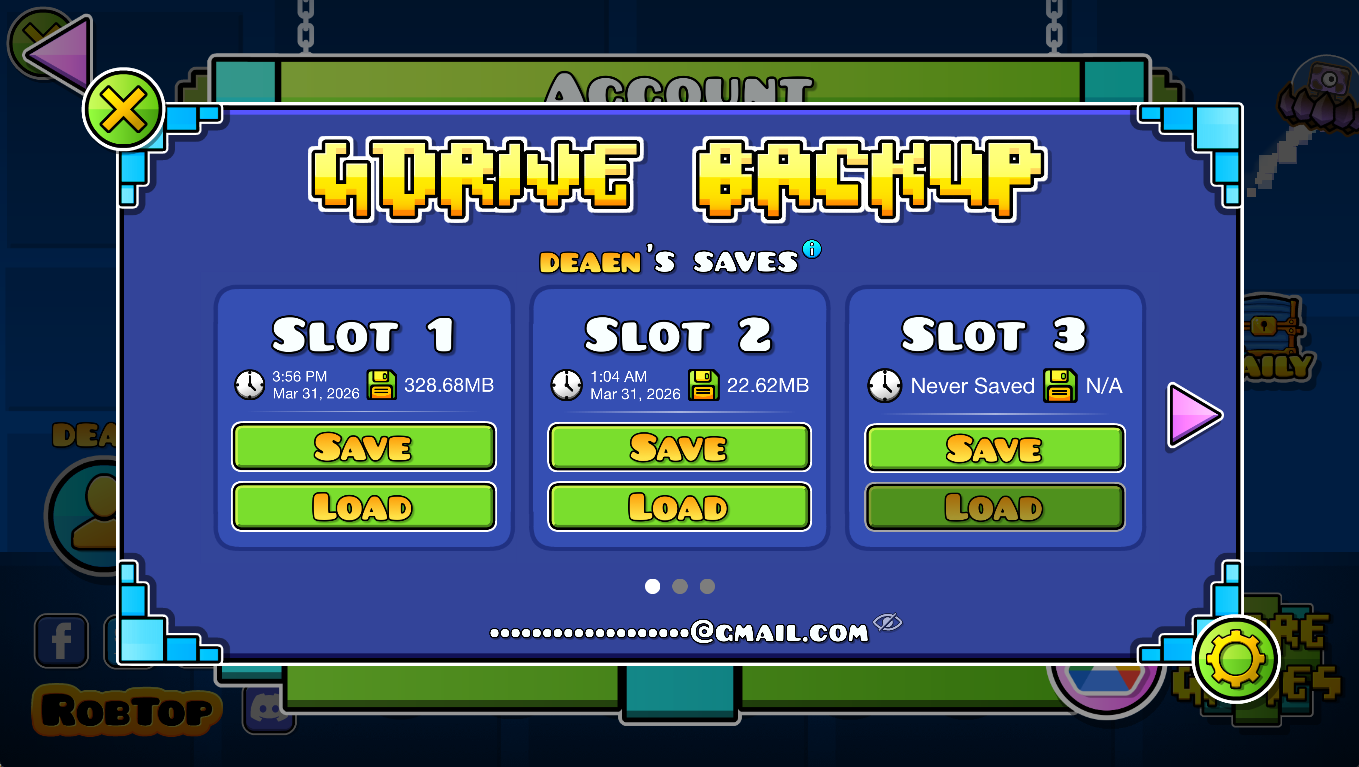
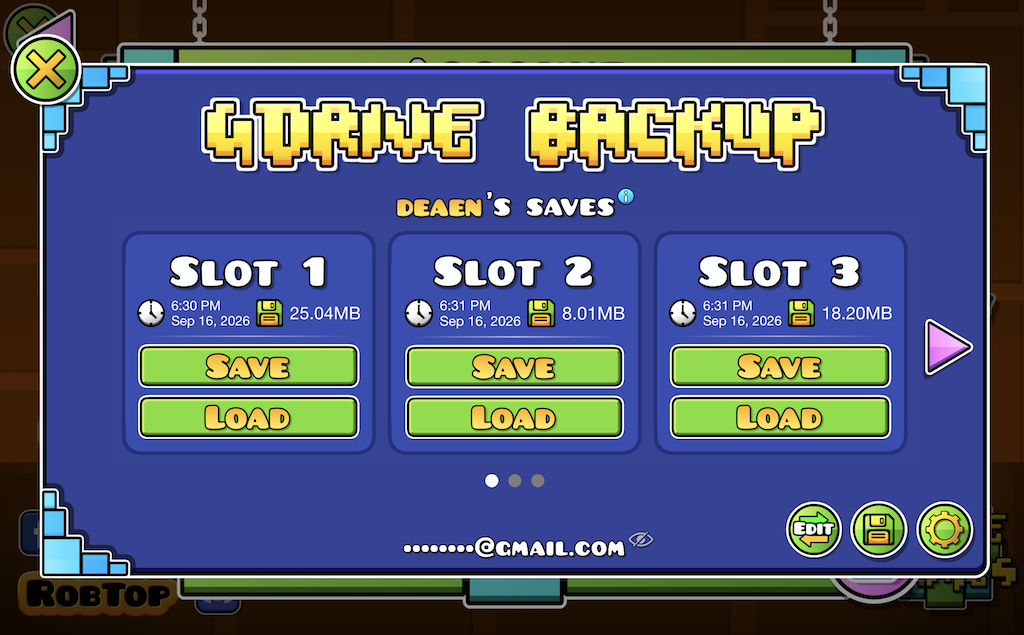
almost there

diff --git a/src/main.cpp b/src/main.cpp
@@ -1,11 +1,28 @@
+#include "GDrivePopup.hpp"
 #include <Geode/Geode.hpp>
 #include <Geode/modify/AccountLayer.hpp>
 #include <Geode/modify/MenuLayer.hpp>
-#include "GDrivePopup.hpp"
 
 using namespace geode::prelude;
 
-class $modify(GDriveMenuLayer, MenuLayer)
+struct GDriveMain
+{
+    void onButton(CCObject *)
+    {
+        GDrivePopup::create();
+        /* Update popup */
+        if (!Mod::get()->setSavedValue("shown-v1.3.0-popup", true) && !Mod::get()->getSavedValue<bool>("new-user", false))
+        {
+            FLAlertLayer::create(
+                "update v1.3.0",
+                "new update!! check it out:\n- <cy>New Edit mode!</c>\n- <cy> New size information menu!</c>\n- <cy>New drive icon option!</c>\n- <cy>Lots of bug fixes & optimizations!</c>\n thank you for using this mod! :D",
+                "Okay")
+                ->show();
+        }
+    }
+};
+
+class $modify(MenuLayer)
 {
 
     $override bool init()
@@ -19,7 +36,7 @@ class $modify(GDriveMenuLayer, MenuLayer)
         /* Main Menu GDrive Button */
         if (auto menu = this->getChildByID("bottom-menu"))
         {
-            auto gdriveButton = CCMenuItemSpriteExtra::create(CircleButtonSprite::createWithSprite((Mod::get()->getSettingValue<bool>("new-icon")) ? "iconNew.png"_spr : "icon.png"_spr, 1.f, CircleBaseColor::Green, CircleBaseSize::MediumAlt), this, menu_selector(GDriveMenuLayer::onGDriveButton));
+            auto gdriveButton = CCMenuItemSpriteExtra::create(CircleButtonSprite::createWithSprite((Mod::get()->getSettingValue<bool>("new-icon")) ? "iconNew.png"_spr : "icon.png"_spr, 1.f, CircleBaseColor::Green, CircleBaseSize::MediumAlt), this, menu_selector(GDriveMain::onButton));
             gdriveButton->setID("gdrive-bottom-button"_spr);
             menu->addChild(gdriveButton);
             menu->updateLayout();
@@ -27,14 +44,9 @@ class $modify(GDriveMenuLayer, MenuLayer)
 
         return true;
     }
-
-    void onGDriveButton(CCObject *)
-    {
-        GDrivePopup::create();
-    }
 };
 
-class $modify(GDriveAccountLayer, AccountLayer)
+class $modify(AccountLayer)
 {
 
     $override void customSetup()
@@ -45,7 +57,7 @@ class $modify(GDriveAccountLayer, AccountLayer)
 
         if (auto menu = CCMenu::create())
         {
-            auto gdriveButton = CCMenuItemSpriteExtra::create(CircleButtonSprite::createWithSprite((Mod::get()->getSettingValue<bool>("new-icon")) ? "iconNew.png"_spr : "icon.png"_spr, 1.f, CircleBaseColor::Pink, CircleBaseSize::BigAlt), this, menu_selector(GDriveAccountLayer::onGDriveButton));
+            auto gdriveButton = CCMenuItemSpriteExtra::create(CircleButtonSprite::createWithSprite((Mod::get()->getSettingValue<bool>("new-icon")) ? "iconNew.png"_spr : "icon.png"_spr, 1.f, CircleBaseColor::Pink, CircleBaseSize::BigAlt), this, menu_selector(GDriveMain::onButton));
             gdriveButton->setID("gdrive-button"_spr);
 
             menu->setContentSize(gdriveButton->getScaledContentSize());
@@ -89,9 +101,5 @@ class $modify(GDriveAccountLayer, AccountLayer)
             if (m_mainLayer)
                 m_mainLayer->addChild(menu);
         }
-    }
-    void onGDriveButton(CCObject *)
-    {
-        GDrivePopup::create();
     }
 };

diff --git a/src/GDriveSlotBox.cpp b/src/GDriveSlotBox.cpp
@@ -156,7 +156,7 @@ bool GDriveSlotBox::init(int slot, bool enableEditMode)
     m_deleteButton->setVisible(false);
     m_editSpinner->setVisible(false);
     m_menu->setLayout(ColumnLayout::create()->setAxisReverse(true)->setAutoScale(true)->setAxisAlignment(AxisAlignment::Between));
-    
+
     /* Add children to m_menu */
     m_menu->addChild(m_slotTitle);
     m_menu->addChild(m_infoRow);
@@ -235,12 +235,6 @@ void GDriveSlotBox::updateStatus()
     {
         setMetadataStatus(true);
 
-        if (getEditMode())
-        {
-            setShouldEditMode(true);
-            setEditMode(true);
-        }
-
         auto metadataMap = GDriveManager::getInstance()->getMetadataMap();
         if (metadataMap && !metadataMap->contains(getSlot()) && GDriveManager::getInstance()->getMetadataStatus())
         {
@@ -256,6 +250,12 @@ void GDriveSlotBox::updateStatus()
             auto action = CCRepeatForever::create(CCSequence::createWithTwoActions(CCFadeTo::create(duration, 55), CCFadeTo::create(duration, 255)));
             action->setTag(1);
             m_slotTitle->getInputNode()->getTextLabel()->runAction(action);
+        }
+
+        if (getEditMode())
+        {
+            setShouldEditMode(true);
+            setEditMode(true);
         }
     }
 }
@@ -341,6 +341,9 @@ void GDriveSlotBox::onDelete(CCObject *sender)
                             if (ok)
                             {
                                 Notification::create(fmt::format("Save {} successfully deleted", getSlot()), NotificationIcon::Success, 3.f)->show();
+                                auto metadataMap = GDriveManager::getInstance()->getMetadataMap();
+                                if (metadataMap && metadataMap->contains(getSlot()))
+                                    metadataMap->erase(getSlot());
                                 updateStatus();
                             }
                         });
@@ -421,9 +424,15 @@ void GDriveSlotBox::updateInfo()
     auto metadataMap = GDriveManager::getInstance()->getMetadataMap();
     if (metadataMap && metadataMap->contains(getSlot()))
     {
+        setMetadataStatus(false);
         m_savedTimestamp = utils::numFromString<time_t>(metadataMap->at(getSlot())["timestamp"]).unwrapOrDefault();
         m_savedSize = utils::numFromString<size_t>(metadataMap->at(getSlot())["size"]).unwrapOrDefault();
         m_savedDescription = metadataMap->at(getSlot())["description"];
+    }
+    else{
+        m_savedTimestamp = 0;
+        m_savedSize = 0;
+        m_savedDescription = "";
     }
 
     if (m_savedSize == 0)
@@ -455,6 +464,7 @@ void GDriveSlotBox::updateInfo()
             m_slotTitle->setString(fmt::format("Slot {}", getSlot()));
         else
             m_slotTitle->setString(m_savedDescription);
+        m_empty = false;
     }
 
     m_slotTitle->getInputNode()->getTextLabel()->stopActionByTag(1);
@@ -549,7 +559,6 @@ void GDriveSlotBox::loadMetadata()
     if (GDriveManager::getInstance()->checkStatus(this) == GDriveManager::Status::Idle)
     {
         setStatusVisiblity(false);
-        setMetadataStatus(false);
         updateInfo();
 
         if (getShouldEditMode())

diff --git a/src/GDrivePopup.cpp b/src/GDrivePopup.cpp
@@ -72,7 +72,7 @@ bool GDrivePopup::init()
     nameInfoButton->setID("name-info-button"_spr);
     nameRow->addChild(nameInfoButton);
 
-    nameRow->setLayout(RowLayout::create()->setAutoScale(false)->setAxisAlignment(AxisAlignment::Center)->setCrossAxisLineAlignment(AxisAlignment::End));
+    nameRow->setLayout(RowLayout::create()->setAutoScale(false)->setAxisAlignment(AxisAlignment::Center)->setCrossAxisLineAlignment(AxisAlignment::End)->setGap(0.f));
     popupColumn->addChild(nameRow);
 
     /* Slot Row */
@@ -100,14 +100,14 @@ bool GDrivePopup::init()
     m_rightArrowButton->setID("right-arrow-button"_spr);
     m_buttonMenu->addChildAtPosition(m_rightArrowButton, Anchor::Right, {-(m_rightArrowButton->getContentWidth() / 2) - 7.f, -13.f});
 
-            /* Page Button Row */
+    /* Page Button Row */
     m_pageButtonsRow = CCMenu::create();
     m_pageButtonsRow->setContentWidth(popupColumn->getContentWidth());
     m_pageButtonsRow->setAnchorPoint({0.5f, 0.5f});
     m_pageButtonsRow->setID("page-button-row"_spr);
     
     /* Slot & metadata setup */
-    async::spawn(GDriveManager::getInstance()->getMetadata2(), [this](bool gotData) {
+    async::spawn(GDriveManager::getInstance()->getMetadata(), [this](bool gotData) {
         for (const auto &box : m_slotBoxes)
         {
             if (box)
@@ -195,7 +195,6 @@ bool GDrivePopup::init()
     bottomRightMenu->addChild(modSettingsButton);
 
     bottomRightMenu->setLayout(RowLayout::create()->setAxisAlignment(AxisAlignment::End)->setGap(3.f));
- 
     return true;
 }
 

diff --git a/include/GDriveManager.hpp b/include/GDriveManager.hpp
@@ -30,7 +30,7 @@ class GDriveManager : public cocos2d::CCObject
     arc::Future<std::optional<std::string>> getMainFolderID(const bool autoCreate = true);
     arc::Future<std::optional<std::string>> getUserFolderID(const bool autoCreate = true);
     arc::Future<std::optional<std::string>> getFileID(const int slot, const bool autoCreateFolder, const std::string error = "", const std::string defparentID = "", bool visibleError = true);
-    arc::Future<bool> getMetadata2(); // rename this to get metadata later and the other one to like loadMetadataOrMaybeYouWontEvenNeedItWhoKnows
+    arc::Future<bool> getMetadata(); // rename this to get metadata later and the other one to like loadMetadataOrMaybeYouWontEvenNeedItWhoKnows
     arc::Future<bool> setDescription(const std::string description, const int slot);
     arc::Future<bool> deleteFile(const int slot);
     arc::Future<bool> saveString(const std::string data, const int slot, web::WebRequest responseReq);

diff --git a/src/GDriveManager.cpp b/src/GDriveManager.cpp
@@ -920,7 +920,7 @@ arc::Future<std::optional<sizedata_map>> GDriveManager::getSizeInfo()
     co_return sizeDataMap;
 }
 
-arc::Future<bool> GDriveManager::getMetadata2()
+arc::Future<bool> GDriveManager::getMetadata()
 {
     m_gettingMetadata = true;
 
@@ -1052,7 +1052,6 @@ arc::Future<bool> GDriveManager::deleteFile(const int slot)
         });
         co_return false;
     }
-
     co_return true;
 }
 

diff --git a/changelog.md b/changelog.md
@@ -1,3 +1,9 @@
+# v1.3.0
+- <cy>New Edit mode!</c> the ability to <cr>**delete**</c> saves!
+- <cy> New size information menu!</c> shows you a complete breakdown of your save files across all your accounts!
+- <cy>New drive icon option!</c> If you want to!
+- Lots of bug fixes & optimizations!
+
 # 1.2.1
 - added the option to change the mod's button position in the account menu!
 
